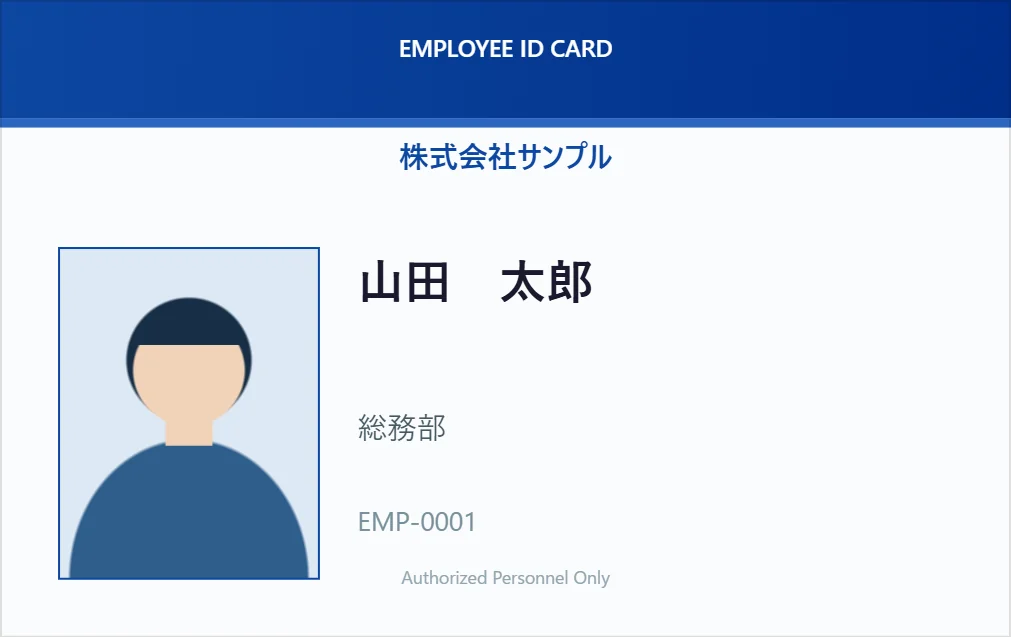
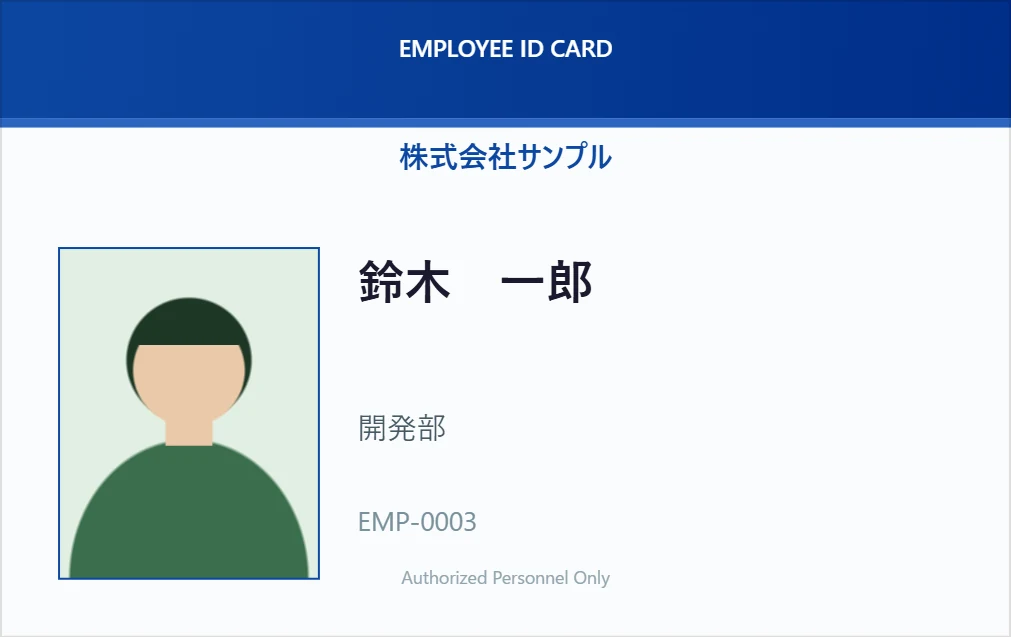
CardSync の案内ページを書き直す
機能の箇条書きではなく、現場の手間から入り、何がどう楽になるかを伝える形に。

- 最初の画面を「言葉＋カードの見本」の2段組みにし、3枚とも見えるように重ねた
- 「カード作りのちょっとした手間」「3つの見本」「使い方は3つだけ」の節を足した
- 書ける内容はコードで裏を取った（Shift_JIS の自動判別・写真 ZIP の結びつけ・
  実寸300dpi・和暦・自動採番・重複の見分け・バーコードと QR・社内だけで動かす一式）
- 来訪者証の見本を、担当者の名前に「担当」が付いた版に差し替え

diff --git a/src/pages/CardSync/CardSyncPage.jsx b/src/pages/CardSync/CardSyncPage.jsx
@@ -5,30 +5,72 @@ import { PAGES, CARDSYNC_TRIAL_URL } from '../../seo/site'
 import './CardSync.css'
 
 const CARDS = [
-  { src: '/cardsync/card-employee.webp', alt: '社員証の見本。青い帯、氏名、部署、社員番号、顔写真の枠' },
-  { src: '/cardsync/card-visitor.webp', alt: '来訪者証の見本。オレンジの帯、氏名、会社名、訪問日' },
-  { src: '/cardsync/card-access.webp', alt: '立入許可証の見本。緑の帯、立入区域、氏名、許可番号、有効期限' },
+  { src: '/cardsync/card-employee.webp', alt: '社員証の見本。青い帯、顔写真、氏名、部署、社員番号' },
+  { src: '/cardsync/card-visitor.webp', alt: '来訪者証の見本。オレンジの帯、顔写真、氏名、所属会社、訪問日、担当者' },
+  { src: '/cardsync/card-access.webp', alt: '立入許可証の見本。緑の帯、区域名、顔写真、氏名、許可番号、有効期限' },
 ]
 
-const FEATURES = [
+const PAINS = [
   {
-    title: '名簿から、そのまま',
-    body: 'お手元の Excel や CSV を読み込むだけ。和暦の日付も、自動の通し番号も、顔写真の ZIP 一括取込もできます。同じ人を入れ直しても、二重に増えません。',
-    img: '/cardsync/screen-import.webp',
-    alt: '名簿の取り込み画面。ファイルをドロップする枠と、同じ人を見分ける項目の選択',
+    title: '新しい人が入るたび、1枚ずつ位置合わせ',
+    body: 'Word や PowerPoint で作ったひな形は、名前が長いと枠からはみ出します。直しているうちに、ほかの人の分がずれる。そのくり返しです。',
   },
   {
-    title: '見たまま、置くだけ',
-    body: '文字・写真・バーコードを、画面の上で置いて動かすだけ。表と裏を別々に作れます。社員証・来訪者証・立入許可証の見本から始められます。',
+    title: '顔写真を1枚ずつ貼り替える',
+    body: '撮った写真をトリミングして、名簿と見比べて、間違えないように貼る。10人でも大仕事、50人なら丸一日かかります。',
+  },
+  {
+    title: '外に頼むと、待つことになる',
+    body: '来週から来る人、今日決まったアルバイト、急な見学者。そのたびに納期と最低枚数の話をするのは、現場の速さに合いません。',
+  },
+]
+
+const REASONS = [
+  {
+    kicker: '01',
+    title: 'いつもの名簿を、そのまま置くだけ',
+    body: 'お手元の Excel（.xlsx）や CSV を、そのまま読み込めます。文字化けしやすい Shift_JIS のファイルも、中を見て自動で見分けます。和暦の日付も、EMP-0001 のような通し番号の自動採番も、そのまま扱えます。',
+    img: '/cardsync/screen-import.webp',
+    alt: '名簿の取り込み画面。ファイルを置く枠と、同じ人を見分ける項目の選び方',
+  },
+  {
+    kicker: '02',
+    title: '顔写真は、ZIP にまとめて一度に',
+    body: '「社員番号.jpg」のように、名簿の値をファイル名にした写真を ZIP にまとめて置くだけ。全員分が、それぞれのカードの枠に自動で入ります。どれと結びつかなかったかも、その場で分かります。文字・写真のほか、バーコード（CODE128・JAN-13 など）や QR コードも、置きたい場所に置けます。',
     img: '/cardsync/screen-designer.webp',
     alt: 'カードのデザイン画面。中央に社員証、左に道具、右に項目の設定',
   },
   {
-    title: '刷る前に、目で確かめる',
-    body: '一人ずつ、仕上がりを画面で確かめてから発行できます。まとめて PDF にもできます。なくした・壊れたときの再発行は、理由と一緒に記録が残ります。',
+    kicker: '03',
+    title: '刷る前に、一人ずつ目で確かめる',
+    body: '実寸 85.6 × 54 mm・300dpi で、表と裏の仕上がりをそのまま画面に出します。確かめてから、まとめて印刷（PDF に保存）へ。なくした・壊れたときの再発行は、理由と一緒に記録が残ります。',
     img: '/cardsync/screen-print.webp',
     alt: '発行の画面。左に名簿、右にその人のカードの仕上がり',
   },
+]
+
+const TEMPLATES = [
+  {
+    name: '社員証・職員証',
+    where: '会社・病院・介護施設',
+    has: '顔写真／氏名／部署／社員番号／裏面の案内・内線',
+  },
+  {
+    name: '来訪者証',
+    where: '受付・工場見学・面会',
+    has: '顔写真／氏名／所属会社／訪問日／担当者／裏面に受付番号・退館予定',
+  },
+  {
+    name: '立入許可証',
+    where: '工事現場・サーバ室・区域の管理',
+    has: '顔写真／氏名／区域名／許可番号／有効期限／裏面に緊急連絡先',
+  },
+]
+
+const STEPS = [
+  { n: '1', title: '見本を選ぶ', body: '社員証・来訪者証・立入許可証の3つから選んで、会社名や色を直すところから始められます。' },
+  { n: '2', title: '名簿を入れる', body: 'Excel や CSV を置き、顔写真の ZIP を置きます。同じ人を見分ける項目（社員番号など）を選んでおけば、入れ直しても二重に増えません。' },
+  { n: '3', title: '確かめて刷る', body: '一人ずつ仕上がりを見て、まとめて印刷します。PDF に保存して、印刷を外に頼むこともできます。' },
 ]
 
 export default function CardSyncPage() {
@@ -41,19 +83,42 @@ export default function CardSyncPage() {
       <PageHead label="TRY NOW" title={p.h1} desc={p.description} crumb={p.crumb} />
 
       <section className="cs-hero">
-        <div className="container">
-          <div className="cs-cards" aria-label="カードの見本">
+        <div className="container cs-hero-inner">
+          <div className="cs-hero-text">
+            <p className="cs-lead">
+              専用のソフトも、難しい設定も要りません。お手元の名簿を置くだけで、
+              社員証・来訪者証・立入許可証を、ブラウザの中で作って発行できます。
+            </p>
+            <div className="cs-cta">
+              {ready ? (
+                <a className="btn-yellow cs-start" href={CARDSYNC_TRIAL_URL} rel="noopener">登録なしで体験する（無料）</a>
+              ) : (
+                <span className="cs-start cs-start--soon" aria-disabled="true">体験版は、まもなく公開します</span>
+              )}
+              <Link to="/contact" className="cs-sub-cta">導入について相談する</Link>
+            </div>
+            <p className="cs-cta-note">
+              体験で作ったものは、24時間であなたの分だけ自動で消えます。パソコンの広い画面がおすすめです。
+            </p>
+          </div>
+          <div className="cs-cards" aria-label="作れるカードの見本">
             {CARDS.map((c, i) => (
               <img key={c.src} className={`cs-card cs-card--${i}`} src={c.src} alt={c.alt} width="1011" height="637" loading={i === 0 ? 'eager' : 'lazy'} />
             ))}
           </div>
-          <div className="cs-cta">
-            {ready ? (
-              <a className="btn-yellow cs-start" href={CARDSYNC_TRIAL_URL} rel="noopener">体験する（登録なし）</a>
-            ) : (
-              <span className="cs-start cs-start--soon" aria-disabled="true">体験版は、まもなく公開します</span>
-            )}
-            <p className="cs-cta-note">パソコンの広い画面がおすすめです。スマホでも、名簿の確認と発行はできます。</p>
+        </div>
+      </section>
+
+      <section className="cs-pains">
+        <div className="container">
+          <h2 className="section-title">カード作りの「ちょっとした手間」、重なっていませんか</h2>
+          <div className="cs-pain-list">
+            {PAINS.map((x) => (
+              <article className="cs-pain" key={x.title}>
+                <h3>{x.title}</h3>
+                <p>{x.body}</p>
+              </article>
+            ))}
           </div>
         </div>
       </section>
@@ -77,28 +142,62 @@ export default function CardSyncPage() {
         <div className="container">
           <h2 className="section-title">できること</h2>
           <div className="cs-feature-list">
-            {FEATURES.map((f) => (
+            {REASONS.map((f) => (
               <article className="cs-feature" key={f.title}>
                 <div className="cs-feature-text">
+                  <p className="cs-kicker">{f.kicker}</p>
                   <h3>{f.title}</h3>
                   <p>{f.body}</p>
                 </div>
-                <img className="cs-feature-img" src={f.img} alt={f.alt} width="1280" height="800" loading="lazy" />
+                <img className="cs-feature-img" src={f.img} alt={f.alt} width="1600" height="1000" loading="lazy" />
               </article>
             ))}
           </div>
         </div>
       </section>
 
+      <section className="cs-templates">
+        <div className="container">
+          <h2 className="section-title">3つの見本から始められます</h2>
+          <p className="cs-templates-note">どれも、会社名・色・項目の位置を、画面の上で動かして直せます。表と裏を別々に作れます。</p>
+          <div className="cs-template-list">
+            {TEMPLATES.map((t) => (
+              <article className="cs-template" key={t.name}>
+                <h3>{t.name}</h3>
+                <p className="cs-template-where">{t.where}</p>
+                <p className="cs-template-has">{t.has}</p>
+              </article>
+            ))}
+          </div>
+        </div>
+      </section>
+
+      <section className="cs-steps">
+        <div className="container">
+          <h2 className="section-title">使い方は、3つだけ</h2>
+          <ol className="cs-step-list">
+            {STEPS.map((s) => (
+              <li className="cs-step" key={s.n}>
+                <span className="cs-step-n" aria-hidden="true">{s.n}</span>
+                <div>
+                  <h3>{s.title}</h3>
+                  <p>{s.body}</p>
+                </div>
+              </li>
+            ))}
+          </ol>
+        </div>
+      </section>
+
       <section className="cs-rules">
         <div className="container cs-narrow">
-          <h2 className="section-title">体験版のお約束</h2>
+          <h2 className="section-title">安心してお試しいただくために</h2>
           <ul className="cs-rule-list">
             <li><strong>登録もパスワードも要りません。</strong>押すと、あなただけの場所が作られます。ほかの人からは見えません。</li>
             <li><strong>24時間で、あなたの分だけ自動で消えます。</strong>名簿も、写真も、作ったデザインも残りません。</li>
             <li><strong>実在の人の名前や写真は入れないでください。</strong>見本の人（架空）が最初から入っています。</li>
-            <li>写真は1枚1MB・10枚まで。案件は5つまで作れます。</li>
-            <li>体験版でできるのは、<strong>PDF での印刷まで</strong>です。カードプリンタでの印刷や、お手元のパソコンへの導入は、ご相談ください。</li>
+            <li>体験でできるのは、<strong>画面での確認と印刷（PDF 保存）まで</strong>です。写真は1枚1MB・10枚まで、案件は5つまで。</li>
+            <li><strong>社内だけで動かす形もあります。</strong>個人情報や顔写真を外に出さず、社内のパソコンだけで動かす一式をご用意できます。導入時にご相談ください。</li>
           </ul>
         </div>
       </section>

diff --git a/src/pages/CardSync/CardSync.css b/src/pages/CardSync/CardSync.css
@@ -2,29 +2,18 @@
 
 .cs-narrow { max-width: 760px; }
 
-/* 見本のカードを、少しずつずらして重ねる */
-.cs-hero { padding: 48px 0 24px; }
-.cs-cards {
-  position: relative;
-  width: min(560px, 100%);
-  aspect-ratio: 1011 / 760;
-  margin: 0 auto;
+/* ── 最初の画面：言葉を左、カードの見本を右に ── */
+.cs-hero { padding: 40px 0 56px; }
+.cs-hero-inner {
+  display: grid;
+  grid-template-columns: minmax(0, 1fr) minmax(0, 1.05fr);
+  gap: 48px;
+  align-items: center;
 }
-.cs-card {
-  position: absolute;
-  width: 78%;
-  height: auto;
-  border-radius: 14px;
-  border: 1px solid var(--cream-bd);
-  box-shadow: var(--shadow);
-  background: var(--white);
-}
-.cs-card--0 { left: 0; top: 0; z-index: 3; }
-.cs-card--1 { left: 11%; top: 17%; z-index: 2; }
-.cs-card--2 { left: 22%; top: 34%; z-index: 1; }
+.cs-lead { font-size: 1.08rem; line-height: 2.1; color: var(--black-s); }
 
-.cs-cta { text-align: center; margin-top: 28px; display: grid; gap: 12px; justify-items: center; }
-.cs-start { font-size: 1.1rem; }
+.cs-cta { margin-top: 28px; display: flex; flex-wrap: wrap; align-items: center; gap: 16px 24px; }
+.cs-start { font-size: 1.05rem; }
 .cs-start--soon {
   display: inline-block;
   padding: 14px 28px;
@@ -34,24 +23,63 @@
   background: var(--white);
   font-weight: 700;
 }
-.cs-cta-note { color: var(--gray); font-size: 0.9rem; }
+.cs-sub-cta { color: var(--black-s); font-weight: 700; text-decoration: underline; text-underline-offset: 4px; }
+.cs-sub-cta:hover { color: #8a6a3d; }
+.cs-cta-note { margin-top: 16px; color: var(--gray); font-size: 0.9rem; line-height: 1.85; }
 
-.cs-why { padding: 56px 0; background: var(--white); }
+/* 見本のカードを、少しずつずらして重ねる */
+.cs-cards {
+  position: relative;
+  width: 100%;
+  /* 横 1011 × 0.7 の3枚を、縦にずらして重ねたときの高さ */
+  aspect-ratio: 1011 / 830;
+}
+.cs-card {
+  position: absolute;
+  width: 70%;
+  height: auto;
+  border-radius: 14px;
+  border: 1px solid var(--cream-bd);
+  box-shadow: var(--shadow);
+  background: var(--white);
+}
+/* 3枚とも、どんなカードかが分かるだけ顔を出す */
+.cs-card--0 { left: 0; top: 2%; z-index: 3; transform: rotate(-2deg); }
+.cs-card--1 { left: 15%; top: 24%; z-index: 2; }
+.cs-card--2 { left: 30%; top: 46%; z-index: 1; transform: rotate(2deg); }
+
+/* ── 現場のお悩み ── */
+.cs-pains { padding: 56px 0; background: var(--white); }
+.cs-pains .section-title { margin-bottom: 28px; }
+.cs-pain-list { display: grid; grid-template-columns: repeat(3, minmax(0, 1fr)); gap: 20px; }
+.cs-pain {
+  border: 1px solid var(--cream-bd);
+  border-radius: var(--radius);
+  background: var(--cream);
+  padding: 22px 20px;
+}
+.cs-pain h3 { font-size: 1.02rem; font-weight: 900; line-height: 1.7; margin-bottom: 10px; }
+.cs-pain p { color: var(--gray); line-height: 1.95; font-size: 0.95rem; }
+
+/* ── 考え方 ── */
+.cs-why { padding: 56px 0; }
 .cs-why .section-title { margin-bottom: 20px; }
 .cs-why p { line-height: 2; color: var(--black-s); }
 .cs-why p + p { margin-top: 1rem; }
 
-.cs-features { padding: 56px 0; }
+/* ── できること ── */
+.cs-features { padding: 56px 0; background: var(--white); }
 .cs-features .section-title { margin-bottom: 28px; }
-.cs-feature-list { display: grid; gap: 40px; }
+.cs-feature-list { display: grid; gap: 44px; }
 .cs-feature {
   display: grid;
-  grid-template-columns: minmax(0, 0.8fr) minmax(0, 1.2fr);
+  grid-template-columns: minmax(0, 0.85fr) minmax(0, 1.15fr);
   gap: 32px;
   align-items: center;
 }
 .cs-feature:nth-child(even) .cs-feature-text { order: 2; }
-.cs-feature h3 { font-size: 1.35rem; font-weight: 900; margin-bottom: 10px; }
+.cs-kicker { font-size: 0.82rem; font-weight: 900; letter-spacing: 0.12em; color: #8a6a3d; margin-bottom: 6px; }
+.cs-feature h3 { font-size: 1.3rem; font-weight: 900; line-height: 1.6; margin-bottom: 12px; }
 .cs-feature p { color: var(--gray); line-height: 1.95; }
 .cs-feature-img {
   width: 100%;
@@ -62,6 +90,41 @@
   background: var(--white);
 }
 
+/* ── 見本の一覧 ── */
+.cs-templates { padding: 56px 0; }
+.cs-templates .section-title { margin-bottom: 12px; }
+.cs-templates-note { color: var(--gray); margin-bottom: 28px; line-height: 1.9; }
+.cs-template-list { display: grid; grid-template-columns: repeat(3, minmax(0, 1fr)); gap: 20px; }
+.cs-template {
+  background: var(--white);
+  border: 1px solid var(--cream-bd);
+  border-radius: var(--radius);
+  padding: 22px 20px;
+}
+.cs-template h3 { font-size: 1.08rem; font-weight: 900; margin-bottom: 6px; }
+.cs-template-where { color: #8a6a3d; font-size: 0.88rem; font-weight: 700; margin-bottom: 12px; }
+.cs-template-has { color: var(--gray); line-height: 1.95; font-size: 0.95rem; }
+
+/* ── 使い方3つ ── */
+.cs-steps { padding: 56px 0; background: var(--white); }
+.cs-steps .section-title { margin-bottom: 28px; }
+.cs-step-list { list-style: none; display: grid; grid-template-columns: repeat(3, minmax(0, 1fr)); gap: 24px; margin: 0; padding: 0; }
+.cs-step { display: grid; grid-template-columns: auto minmax(0, 1fr); gap: 16px; align-items: start; }
+.cs-step-n {
+  display: grid;
+  place-items: center;
+  width: 42px;
+  height: 42px;
+  border-radius: 50%;
+  background: var(--yellow);
+  color: #3d2b1f;
+  font-weight: 900;
+  font-size: 1.05rem;
+}
+.cs-step h3 { font-size: 1.05rem; font-weight: 900; margin-bottom: 8px; }
+.cs-step p { color: var(--gray); line-height: 1.95; font-size: 0.95rem; }
+
+/* ── お約束 ── */
 .cs-rules { padding: 56px 0; background: var(--cream-dk); }
 .cs-rules .section-title { margin-bottom: 20px; }
 .cs-rule-list { list-style: none; display: grid; gap: 12px; }
@@ -74,9 +137,12 @@
   color: var(--black-s);
 }
 
-@media (max-width: 760px) {
-  .cs-hero { padding: 32px 0 16px; }
+@media (max-width: 900px) {
+  .cs-hero-inner { grid-template-columns: 1fr; gap: 32px; }
+  .cs-cards { width: min(520px, 100%); margin: 0 auto; }
+  .cs-pain-list, .cs-template-list, .cs-step-list { grid-template-columns: 1fr; }
   .cs-feature { grid-template-columns: 1fr; gap: 16px; }
   .cs-feature:nth-child(even) .cs-feature-text { order: 0; }
-  .cs-why, .cs-features, .cs-rules { padding: 40px 0; }
+  .cs-hero { padding: 28px 0 40px; }
+  .cs-pains, .cs-why, .cs-features, .cs-templates, .cs-steps, .cs-rules { padding: 40px 0; }
 }

diff --git a/src/seo/site.js b/src/seo/site.js
@@ -324,10 +324,10 @@ export const PAGES = {
   cardsync: {
     key: 'cardsync',
     path: '/cardsync/',
-    title: 'CardSync｜名簿から、社員証や来訪者証を作れます | HiMaWaSa Sync',
-    h1: '名簿から、社員証や来訪者証を',
+    title: 'CardSync｜いつもの名簿から、そのままカードを | HiMaWaSa Sync',
+    h1: 'いつもの名簿から、そのままカードを',
     description:
-      'Excel の名簿を読み込んで、社員証・来訪者証・立入許可証をブラウザで作れます。登録なしで体験できます。作ったものは24時間で自動で消えます。',
+      'Excel や CSV の名簿と顔写真の ZIP を置くだけで、社員証・来訪者証・立入許可証をブラウザで作って発行できます。登録なしで体験でき、作ったものは24時間で自動で消えます。',
     og: '目で見て分かるカードを、名簿からすぐ作る。登録なしで体験できます。',
     crumb: 'CardSync',
     // 公開の可否を確認するまで、検索には出さない（体験一覧からのリンクで開ける）
